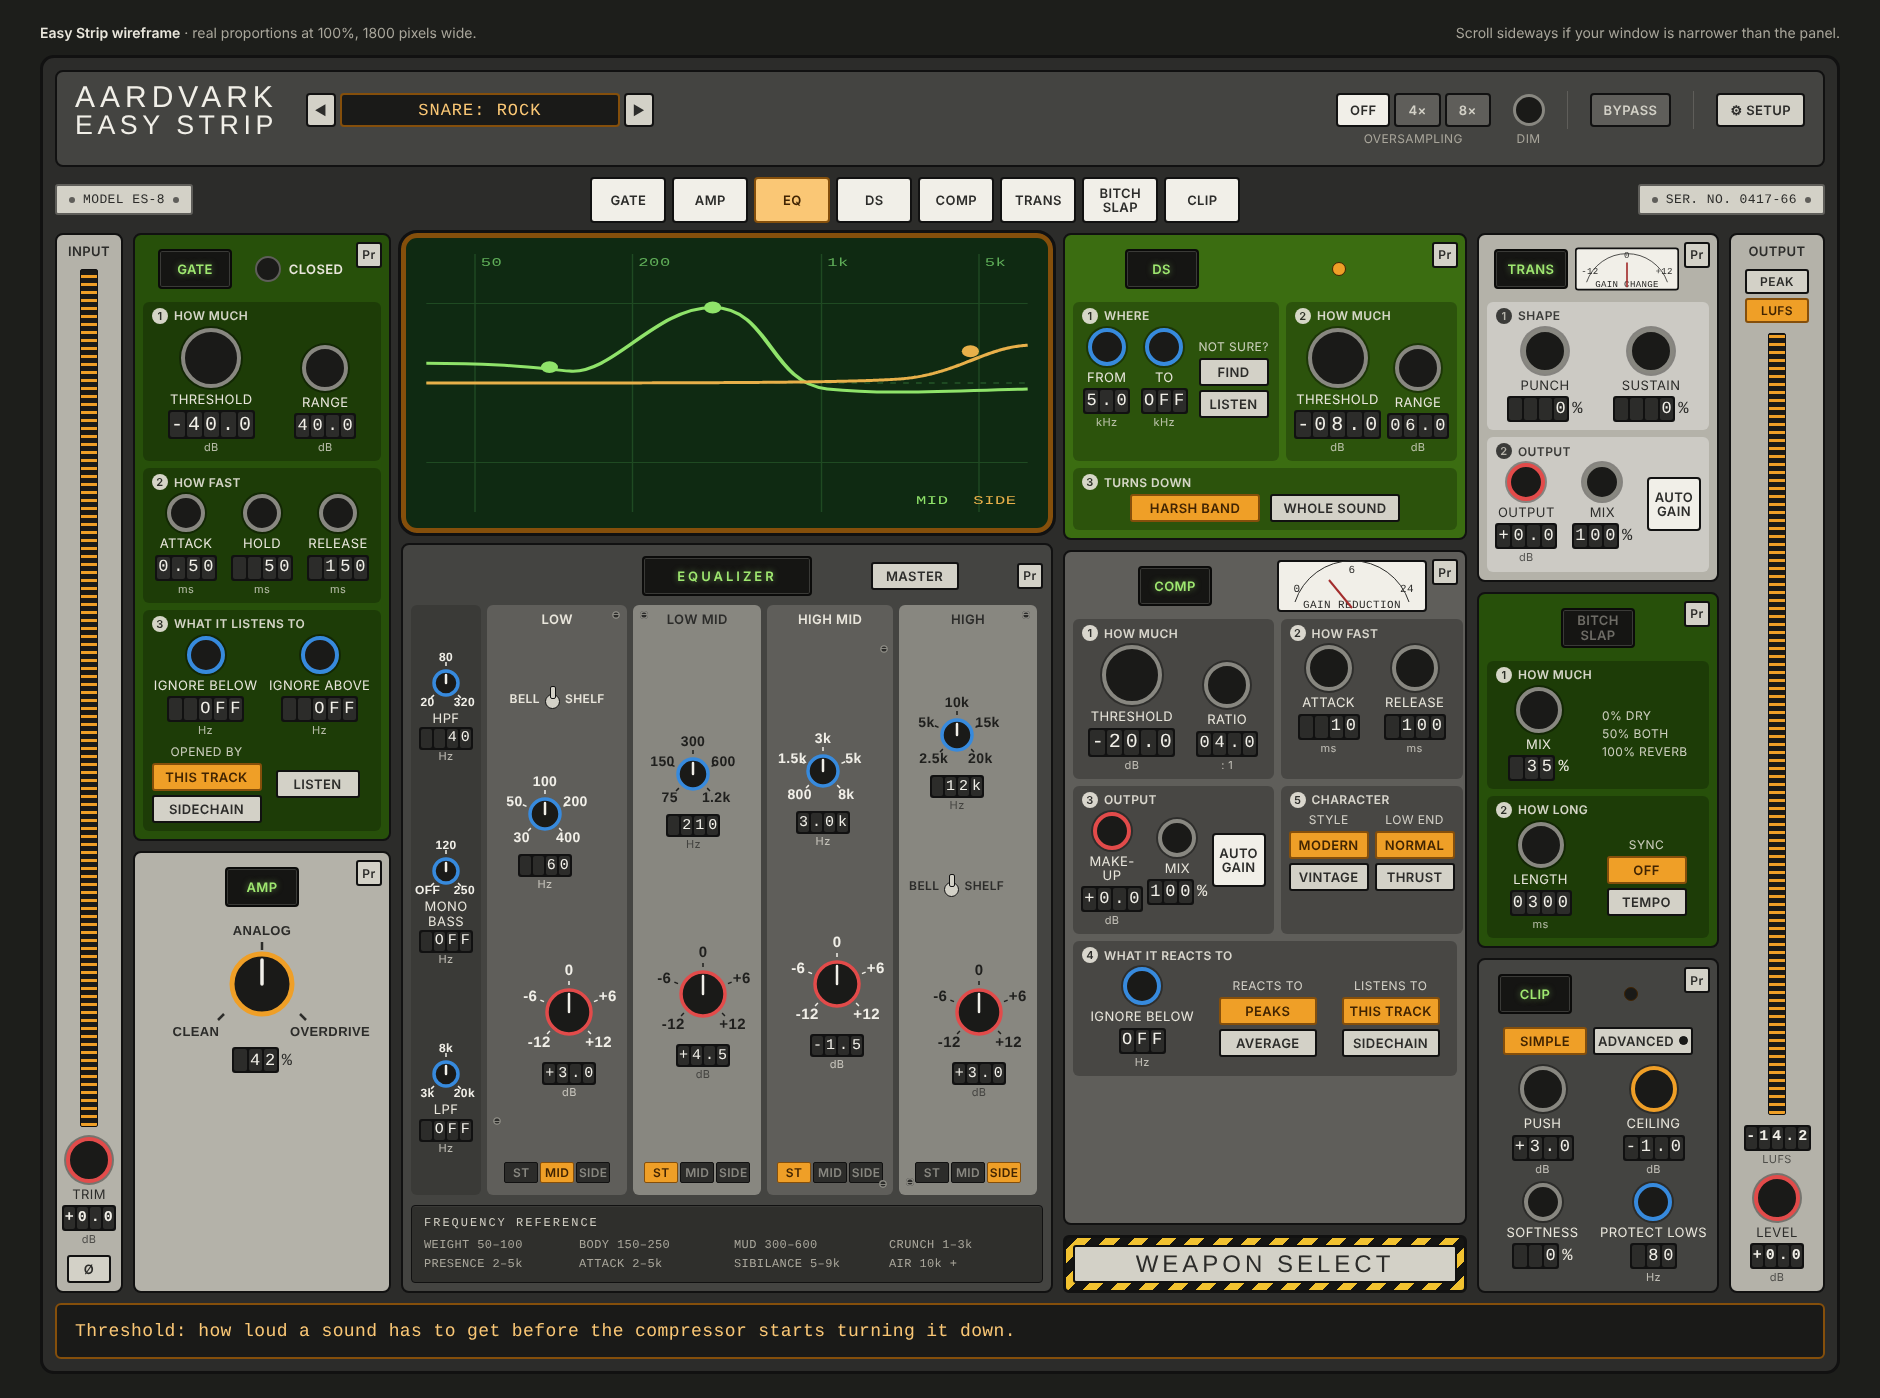
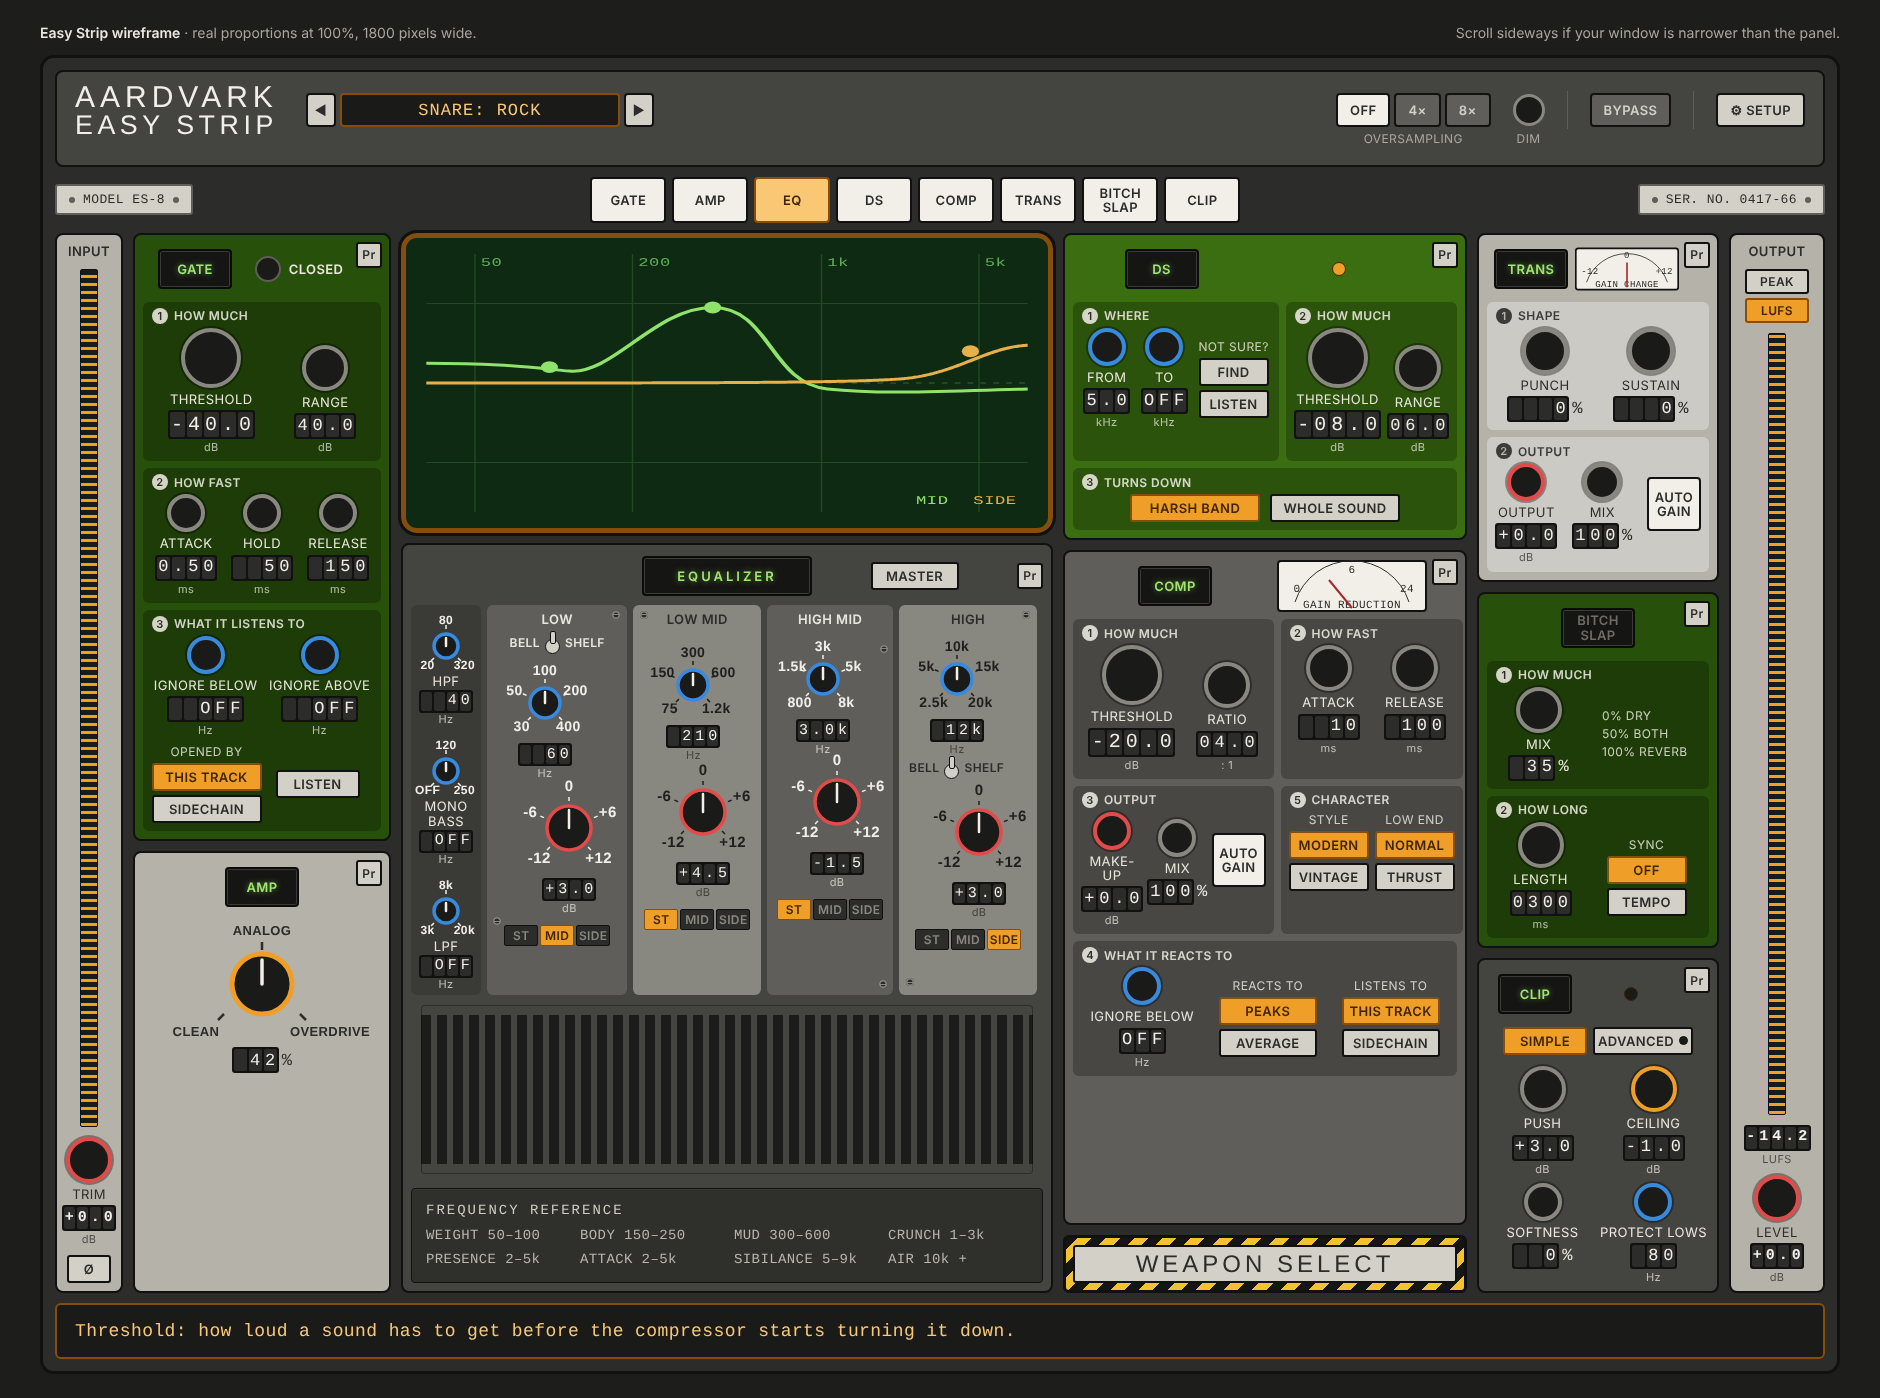
DevTools: keep each EQ band's knobs close together [skip ci]
Claude-Session: https://claude.ai/code/session_01KRn7UbAFWVf9LHLqhN9U6j

Changed region(s): [[0.216, 0.4306, 0.5553, 0.9227]]

diff --git a/DevTools/Look/Strip/strip_wireframe_full_size.html b/DevTools/Look/Strip/strip_wireframe_full_size.html
@@ -95,19 +95,20 @@ body{background:var(--page);color:var(--ink);font-family:var(--label);margin:0;p
 .eq{gap:6px}
 .eqtop{display:grid;grid-template-columns:26px 1fr auto 1fr 26px;align-items:center;min-height:46px}
 .eqtop .pr{position:static}
-.eqgrid{display:grid;grid-template-columns:70px 1.1fr 1fr .96fr 1.08fr 0px;gap:6px;flex:1}
-.eb{position:relative;border-radius:6px;padding:6px 2px 12px;display:flex;flex-direction:column;align-items:center;justify-content:space-between}
+.eqgrid{display:grid;grid-template-columns:70px 1.1fr 1fr .96fr 1.08fr 0px;gap:6px}
+.eb{position:relative;border-radius:6px;padding:6px 2px 10px;display:flex;flex-direction:column;align-items:center;justify-content:flex-start}
 .eb.dk{background:var(--gun);--ink:#f1efe8}.eb.lt{background:#888780;color:#2c2c2a;--ink:#1f1f1d}
 .eb .nm{font-weight:600;font-size:13px}
 .kb{display:flex;flex-direction:column;align-items:center;gap:2px}
-.es{display:flex;flex-direction:column;align-items:center;justify-content:space-around;padding:5px 0;background:#3a3a37;border-radius:6px;--ink:#f1efe8;text-align:center;line-height:1.1}
+.es{display:flex;flex-direction:column;align-items:center;justify-content:flex-start;gap:10px;padding:5px 0;background:#3a3a37;border-radius:6px;--ink:#f1efe8;text-align:center;line-height:1.1}
 .tgt{display:flex;gap:2px;margin-top:8px}.tgt span{width:32px;text-align:center;padding:2px 0;border-radius:2px;background:#2c2c2a;color:#888780;border:1.5px solid #111;font-weight:600;font-size:12px}
 .tgt span.on{background:var(--amber);color:#412402;border-color:#854f0b}
 .tgl{display:flex;align-items:center;gap:5px;font-size:12px;font-weight:600;height:20px}.tgl i{width:13px;height:13px;border-radius:50%;background:var(--face);border:1px solid #111;position:relative;margin-top:7px}.tgl i::after{content:"";position:absolute;left:4px;top:-9px;width:4px;height:11px;background:var(--face);border:1px solid #111;border-radius:2px}
 .scr{position:absolute;width:8px;height:8px;border-radius:50%;background:#2c2c2a;box-shadow:inset 0 0 0 1.5px #888780}
 .scr::after{content:"";position:absolute;left:1px;right:1px;top:3.5px;height:1px;background:#888780}
 .eq .cn b{width:11px;height:19px;font-size:15px}
-.refplate{margin-top:4px;background:#2f2f2c;border:1px solid #111;border-radius:4px;padding:8px 12px;color:#a9a69b;font-family:var(--mono);font-size:12px;line-height:1.6;box-shadow:inset 0 1px 0 rgba(255,255,255,.05);position:relative}
+.grille{flex:1;min-height:20px;margin:4px 10px;border-radius:4px;background:repeating-linear-gradient(90deg,#1c1c1a 0 10px,transparent 10px 16px);background-size:16px 100%;background-clip:content-box;padding:10px 0;box-shadow:inset 0 0 0 1px rgba(0,0,0,.35)}
+.refplate{margin-top:4px;background:#2f2f2c;border:1px solid #111;border-radius:4px;padding:10px 14px;color:#b8b5aa;font-family:var(--mono);font-size:14px;line-height:1.7;box-shadow:inset 0 1px 0 rgba(255,255,255,.05);position:relative}
 .refplate b{color:#cfccc1;font-weight:500;letter-spacing:2px;display:block;margin-bottom:2px}
 .refplate .r2{display:grid;grid-template-columns:repeat(4,1fr);column-gap:14px}
 /* clip + output */
@@ -176,23 +177,24 @@ body{background:var(--page);color:var(--ink);font-family:var(--label);margin:0;p
         <div class="eb dk"><span class="scr" style="top:6px;right:7px"></span><span class="scr" style="bottom:70px;left:6px"></span><span class="nm">LOW</span>
           <div class="tgl" style="margin:6px 0 2px"><span>BELL</span><i></i><span>SHELF</span></div>
           <div class="kb" style="align-self:flex-start"><svg class="knob" data-s="s" data-c="#378ADD" data-l="30,50,100,200,400" width="112" height="86"></svg><span class="cn">  60</span><span class="u">Hz</span></div>
-          <div class="kb" style="align-self:flex-end;margin-top:10px"><svg class="knob" data-s="b" data-c="#E24B4A" data-l="-12,-6,0,+6,+12" width="112" height="104"></svg><span class="cn">+3.0</span><span class="u">dB</span></div>
-          <div class="tgt"><span>ST</span><span class="on">MID</span><span>SIDE</span></div></div>
+          <div class="kb" style="align-self:flex-end;margin-top:-8px"><svg class="knob" data-s="b" data-c="#E24B4A" data-l="-12,-6,0,+6,+12" width="112" height="104"></svg><span class="cn">+3.0</span><span class="u">dB</span></div>
+          <div class="tgt" style="margin-top:10px"><span>ST</span><span class="on">MID</span><span>SIDE</span></div></div>
         <div class="eb lt"><span class="scr" style="top:6px;left:7px"></span><span class="nm">LOW MID</span>
-          <div class="kb" style="align-self:flex-start;margin:30px 0 0 2px"><svg class="knob" data-s="s" data-c="#378ADD" data-l="75,150,300,600,1.2k" width="112" height="86"></svg><span class="cn"> 210</span><span class="u">Hz</span></div>
-          <div class="kb" style="align-self:flex-end;margin-top:18px"><svg class="knob" data-s="b" data-c="#E24B4A" data-l="-12,-6,0,+6,+12" width="112" height="104"></svg><span class="cn">+4.5</span><span class="u">dB</span></div>
-          <div class="tgt" style="margin-top:12px"><span class="on">ST</span><span>MID</span><span>SIDE</span></div></div>
+          <div class="kb" style="align-self:flex-start;margin:10px 0 0 2px"><svg class="knob" data-s="s" data-c="#378ADD" data-l="75,150,300,600,1.2k" width="112" height="86"></svg><span class="cn"> 210</span><span class="u">Hz</span></div>
+          <div class="kb" style="align-self:flex-end;margin-top:-6px"><svg class="knob" data-s="b" data-c="#E24B4A" data-l="-12,-6,0,+6,+12" width="112" height="104"></svg><span class="cn">+4.5</span><span class="u">dB</span></div>
+          <div class="tgt" style="margin-top:10px"><span class="on">ST</span><span>MID</span><span>SIDE</span></div></div>
         <div class="eb dk"><span class="scr" style="bottom:7px;right:6px"></span><span class="scr" style="top:40px;right:5px"></span><span class="nm">HIGH MID</span>
-          <div class="kb" style="align-self:flex-start;margin-top:22px"><svg class="knob" data-s="s" data-c="#378ADD" data-l="800,1.5k,3k,5k,8k" width="108" height="86"></svg><span class="cn">3.0k</span><span class="u">Hz</span></div>
-          <div class="kb" style="align-self:center;margin:6px 0 0 14px"><svg class="knob" data-s="b" data-c="#E24B4A" data-l="-12,-6,0,+6,+12" width="108" height="104"></svg><span class="cn">-1.5</span><span class="u">dB</span></div>
-          <div class="tgt" style="margin-top:18px"><span class="on">ST</span><span>MID</span><span>SIDE</span></div></div>
+          <div class="kb" style="align-self:flex-start;margin-top:4px"><svg class="knob" data-s="s" data-c="#378ADD" data-l="800,1.5k,3k,5k,8k" width="108" height="86"></svg><span class="cn">3.0k</span><span class="u">Hz</span></div>
+          <div class="kb" style="align-self:center;margin:-10px 0 0 14px"><svg class="knob" data-s="b" data-c="#E24B4A" data-l="-12,-6,0,+6,+12" width="108" height="104"></svg><span class="cn">-1.5</span><span class="u">dB</span></div>
+          <div class="tgt" style="margin-top:10px"><span class="on">ST</span><span>MID</span><span>SIDE</span></div></div>
         <div class="eb lt"><span class="scr" style="top:6px;right:7px"></span><span class="scr" style="bottom:9px;left:7px"></span><span class="nm">HIGH</span>
           <div class="kb" style="align-self:flex-start;margin-top:4px"><svg class="knob" data-s="s" data-c="#378ADD" data-l="2.5k,5k,10k,15k,20k" width="112" height="86"></svg><span class="cn"> 12k</span><span class="u">Hz</span></div>
-          <div class="tgl" style="align-self:flex-start;margin:8px 0 0 8px"><span>BELL</span><i></i><span>SHELF</span></div>
-          <div class="kb" style="align-self:flex-end;margin-top:4px"><svg class="knob" data-s="b" data-c="#E24B4A" data-l="-12,-6,0,+6,+12" width="112" height="104"></svg><span class="cn">+3.0</span><span class="u">dB</span></div>
-          <div class="tgt"><span>ST</span><span>MID</span><span class="on">SIDE</span></div></div>
+          <div class="tgl" style="align-self:flex-start;margin:2px 0 0 8px"><span>BELL</span><i></i><span>SHELF</span></div>
+          <div class="kb" style="align-self:flex-end;margin-top:-2px"><svg class="knob" data-s="b" data-c="#E24B4A" data-l="-12,-6,0,+6,+12" width="112" height="104"></svg><span class="cn">+3.0</span><span class="u">dB</span></div>
+          <div class="tgt" style="margin-top:10px"><span>ST</span><span>MID</span><span class="on">SIDE</span></div></div>
         <div class="es" style="background:transparent"></div>
       </div>
+      <div class="grille"></div>
       <div class="refplate"><b>FREQUENCY REFERENCE</b><div class="r2"><span>WEIGHT 50–100</span><span>BODY 150–250</span><span>MUD 300–600</span><span>CRUNCH 1–3k</span><span>PRESENCE 2–5k</span><span>ATTACK 2–5k</span><span>SIBILANCE 5–9k</span><span>AIR 10k +</span></div></div>
     </div>
   </div>
